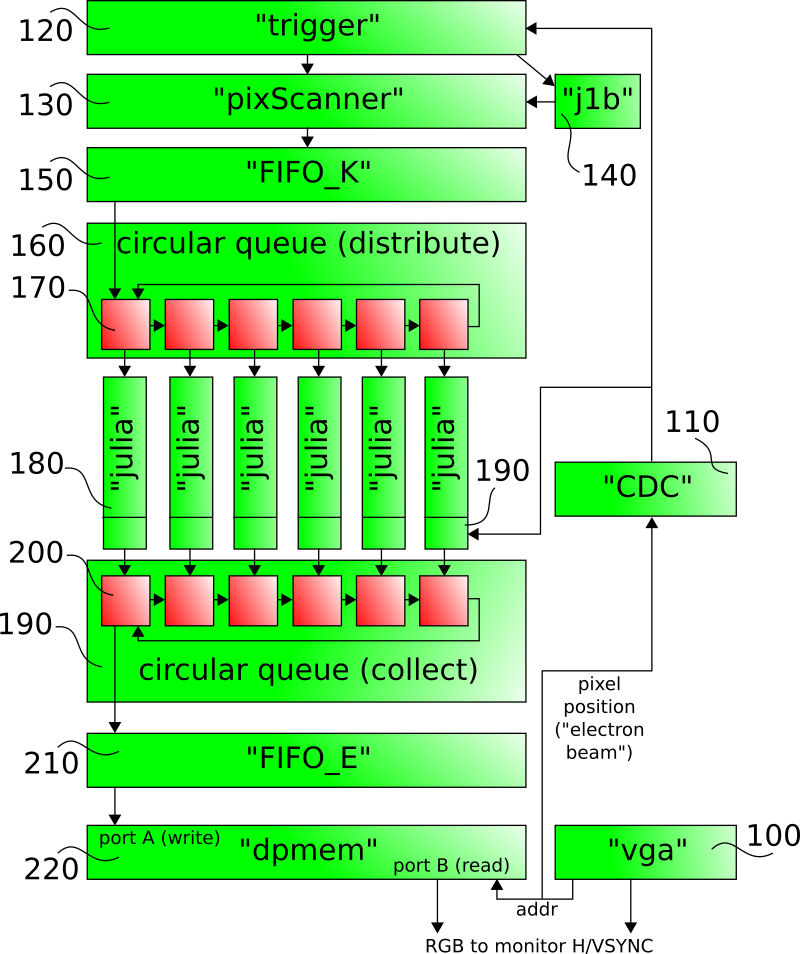
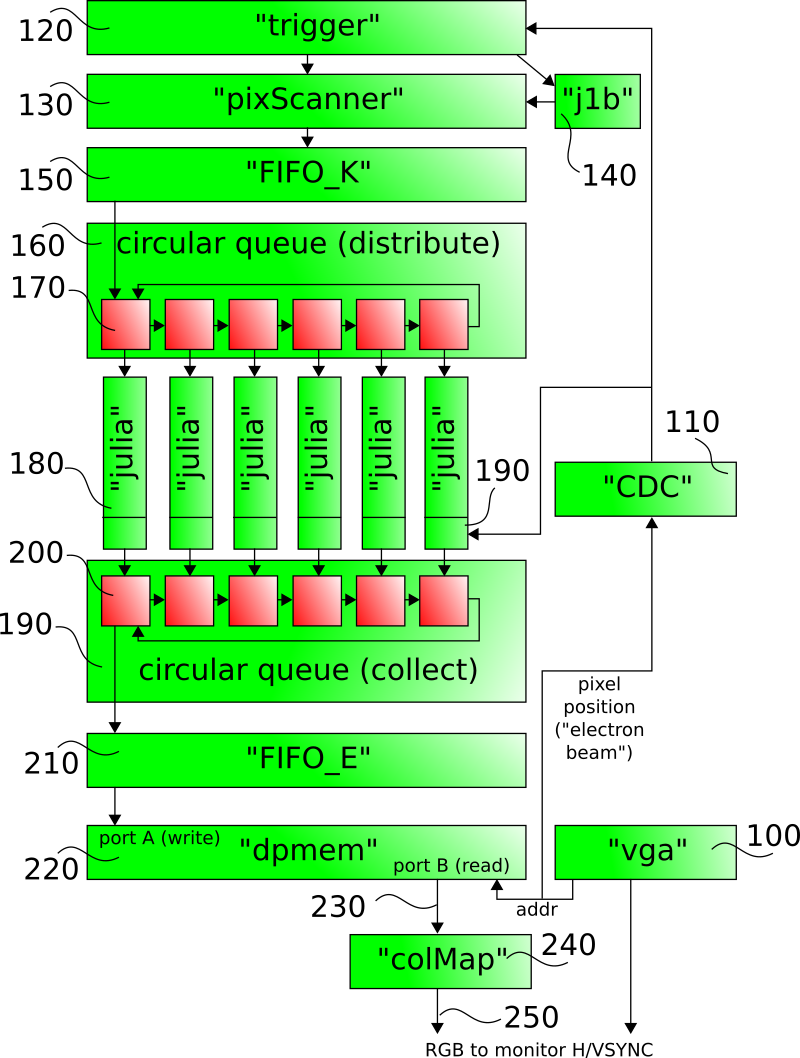
-

diff --git a/fractalsProject/README.md b/fractalsProject/README.md
@@ -107,7 +107,12 @@ Similar to the circular distribution queue **160**, results are collected into c
 Exiting data items from collection queue **190** move into FIFO_E **210** and then into dual port memory **220**. This FIFO is not strictly necessary anymore: Since dual port ram **220** will always be ready to accept data, it could be replaced with a cheaper register.
 
 Dual port memory **220** is indexed on its second port by the electron beam position from "vga" block **100**. The dp-memory implements the crossing for data into the VGA pixel clock domain. 
-Output from the RAM, together with HSYNC and VSYNC signals, is finally forwarded to the monitor output.
+
+RAM output values **230** represent a pixel's iteration count and are converted to RGB color signal **250** by color map RAM **240**. 
+
+Its contents are configurable by CPU **140**. For color cycle animation, color map RAM **240** must be updated during the HSYNC period to not cause artifacts in a running frame (since there are no shadow registers).
+
+The RGB color signal **250** is finally forwarded, together with HSYNC and VSYNC signals from vga generator **100** to the monitor output..
 
 While not shown in the picture, buttons and LEDs are accessible via a register attached to the CPU's IO port.
 
